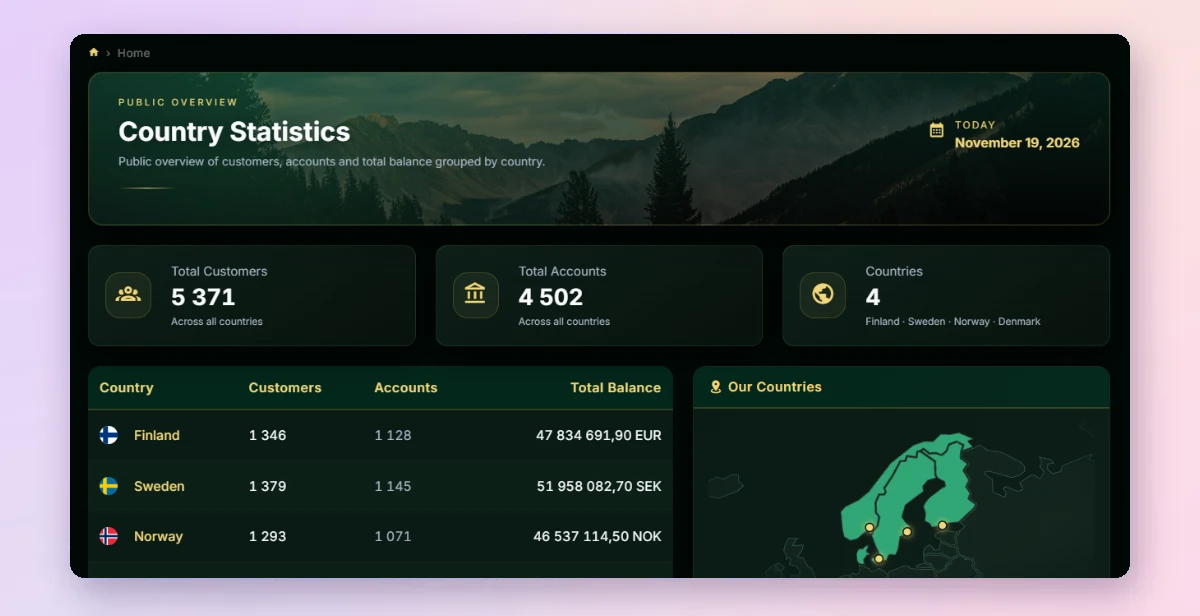
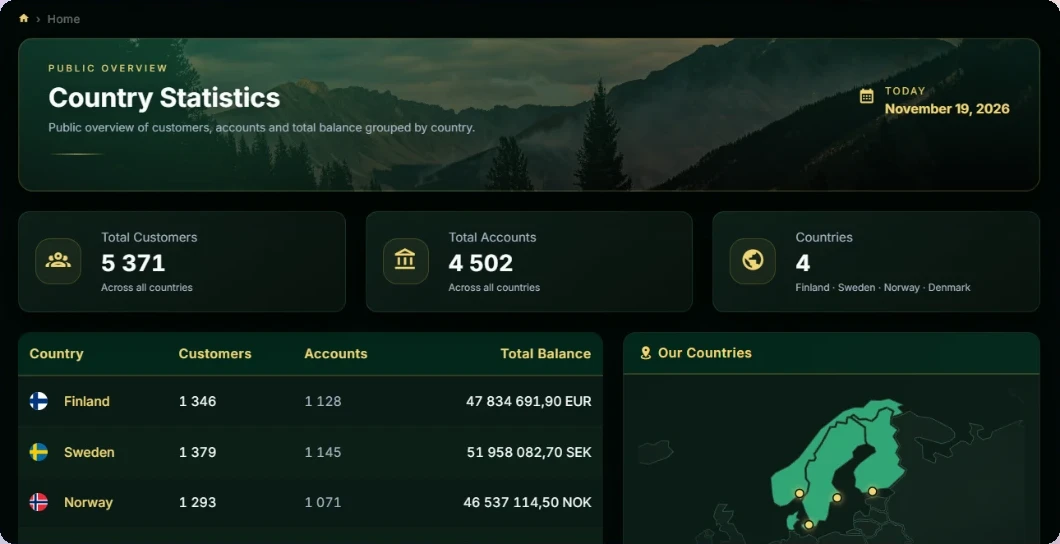
fix: ramen runt projektbilderna följer temat
- Ramen görs i CSS (.project-shot) i stället för att ligga i bildfilerna
- Mörkt läge: mörk lila-rosa gradient. Ljust läge: samma pastellram som förut
- Bildfilerna är rena skärmbilder (1060x544), så ett nytt projekt behöver bara en skärmbild

diff --git a/js/projects.js b/js/projects.js
@@ -164,8 +164,10 @@ function renderProjectCards(projects) {
             <span class="folder-title">${title}</span>
             <p>${data.description}</p>
 
-            <!-- Samma skärmbild i mörkt och ljust läge -->
-            <img src="${data.img}" alt="${title}" class="image-project" loading="lazy">
+            <!-- Skärmbilden ligger i en ram som följer temat (CSS: .project-shot) -->
+            <div class="project-shot">
+                <img src="${data.img}" alt="${title}" class="image-project" loading="lazy">
+            </div>
 
             <p class="project-click">${projectButtonText} <span class="arrow">→</span></p>
 

diff --git a/css/portfolio.css b/css/portfolio.css
@@ -105,11 +105,22 @@
     min-height: 50px; 
 }
 
-.image-project {
-    width: 100%;
-    object-fit: cover;
-    border-radius: 14px;
+/* Ram runt skärmbilden: mörk gradient i mörkt läge (ljus i theme-light.css) */
+.project-shot {
     margin-top: auto;
+    padding: 3% 6%;
+    border-radius: 14px;
+    background: linear-gradient(90deg, #1a1530, #26142a);
+    border: 1px solid rgba(255, 255, 255, 0.06);
+}
+
+.image-project {
+    display: block;
+    width: 100%;
+    aspect-ratio: 1060 / 544;
+    object-fit: cover;
+    border-radius: 6px;
+    box-shadow: 0 6px 18px rgba(0, 0, 0, 0.45);
 }
 
 

diff --git a/css/theme-light.css b/css/theme-light.css
@@ -191,6 +191,16 @@ body.light .btn-icon {
 }
 
 
+/* PROJEKTBILDER: ljus pastellram */
+body.light .project-shot {
+    background: linear-gradient(90deg, #e6d2fa, #fadee8);
+    border-color: rgba(255, 255, 255, 0.6);
+}
+
+body.light .image-project {
+    box-shadow: 0 6px 18px rgba(60, 20, 90, 0.18);
+}
+
 /* CARDS */
 body.light .about-card,
 body.light .skills-card,
